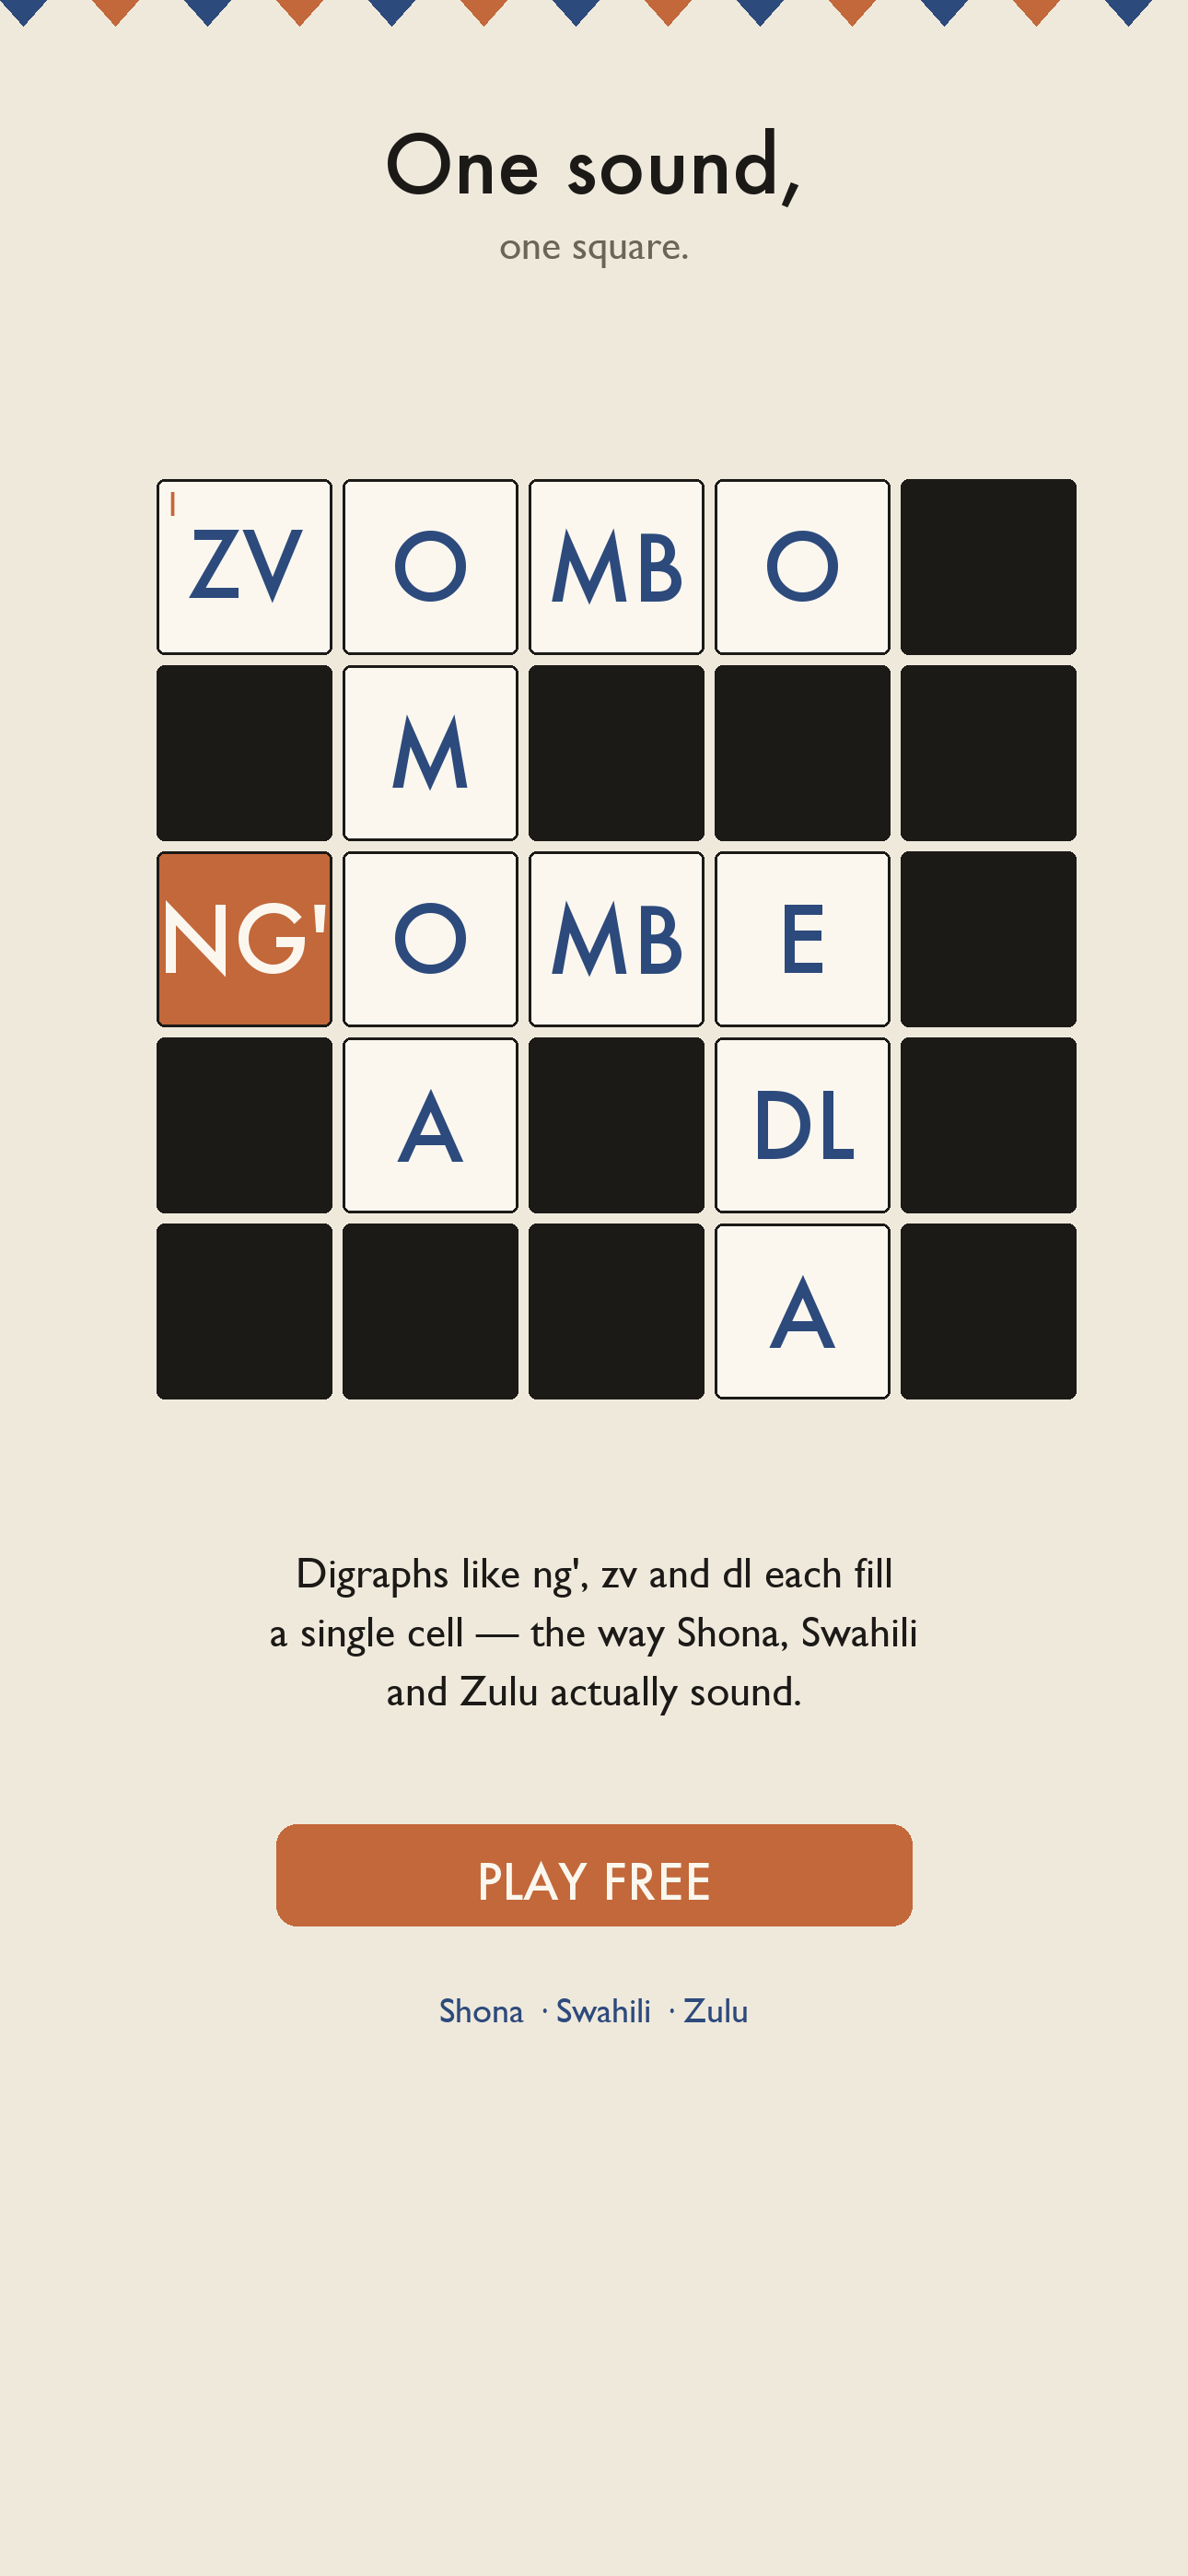
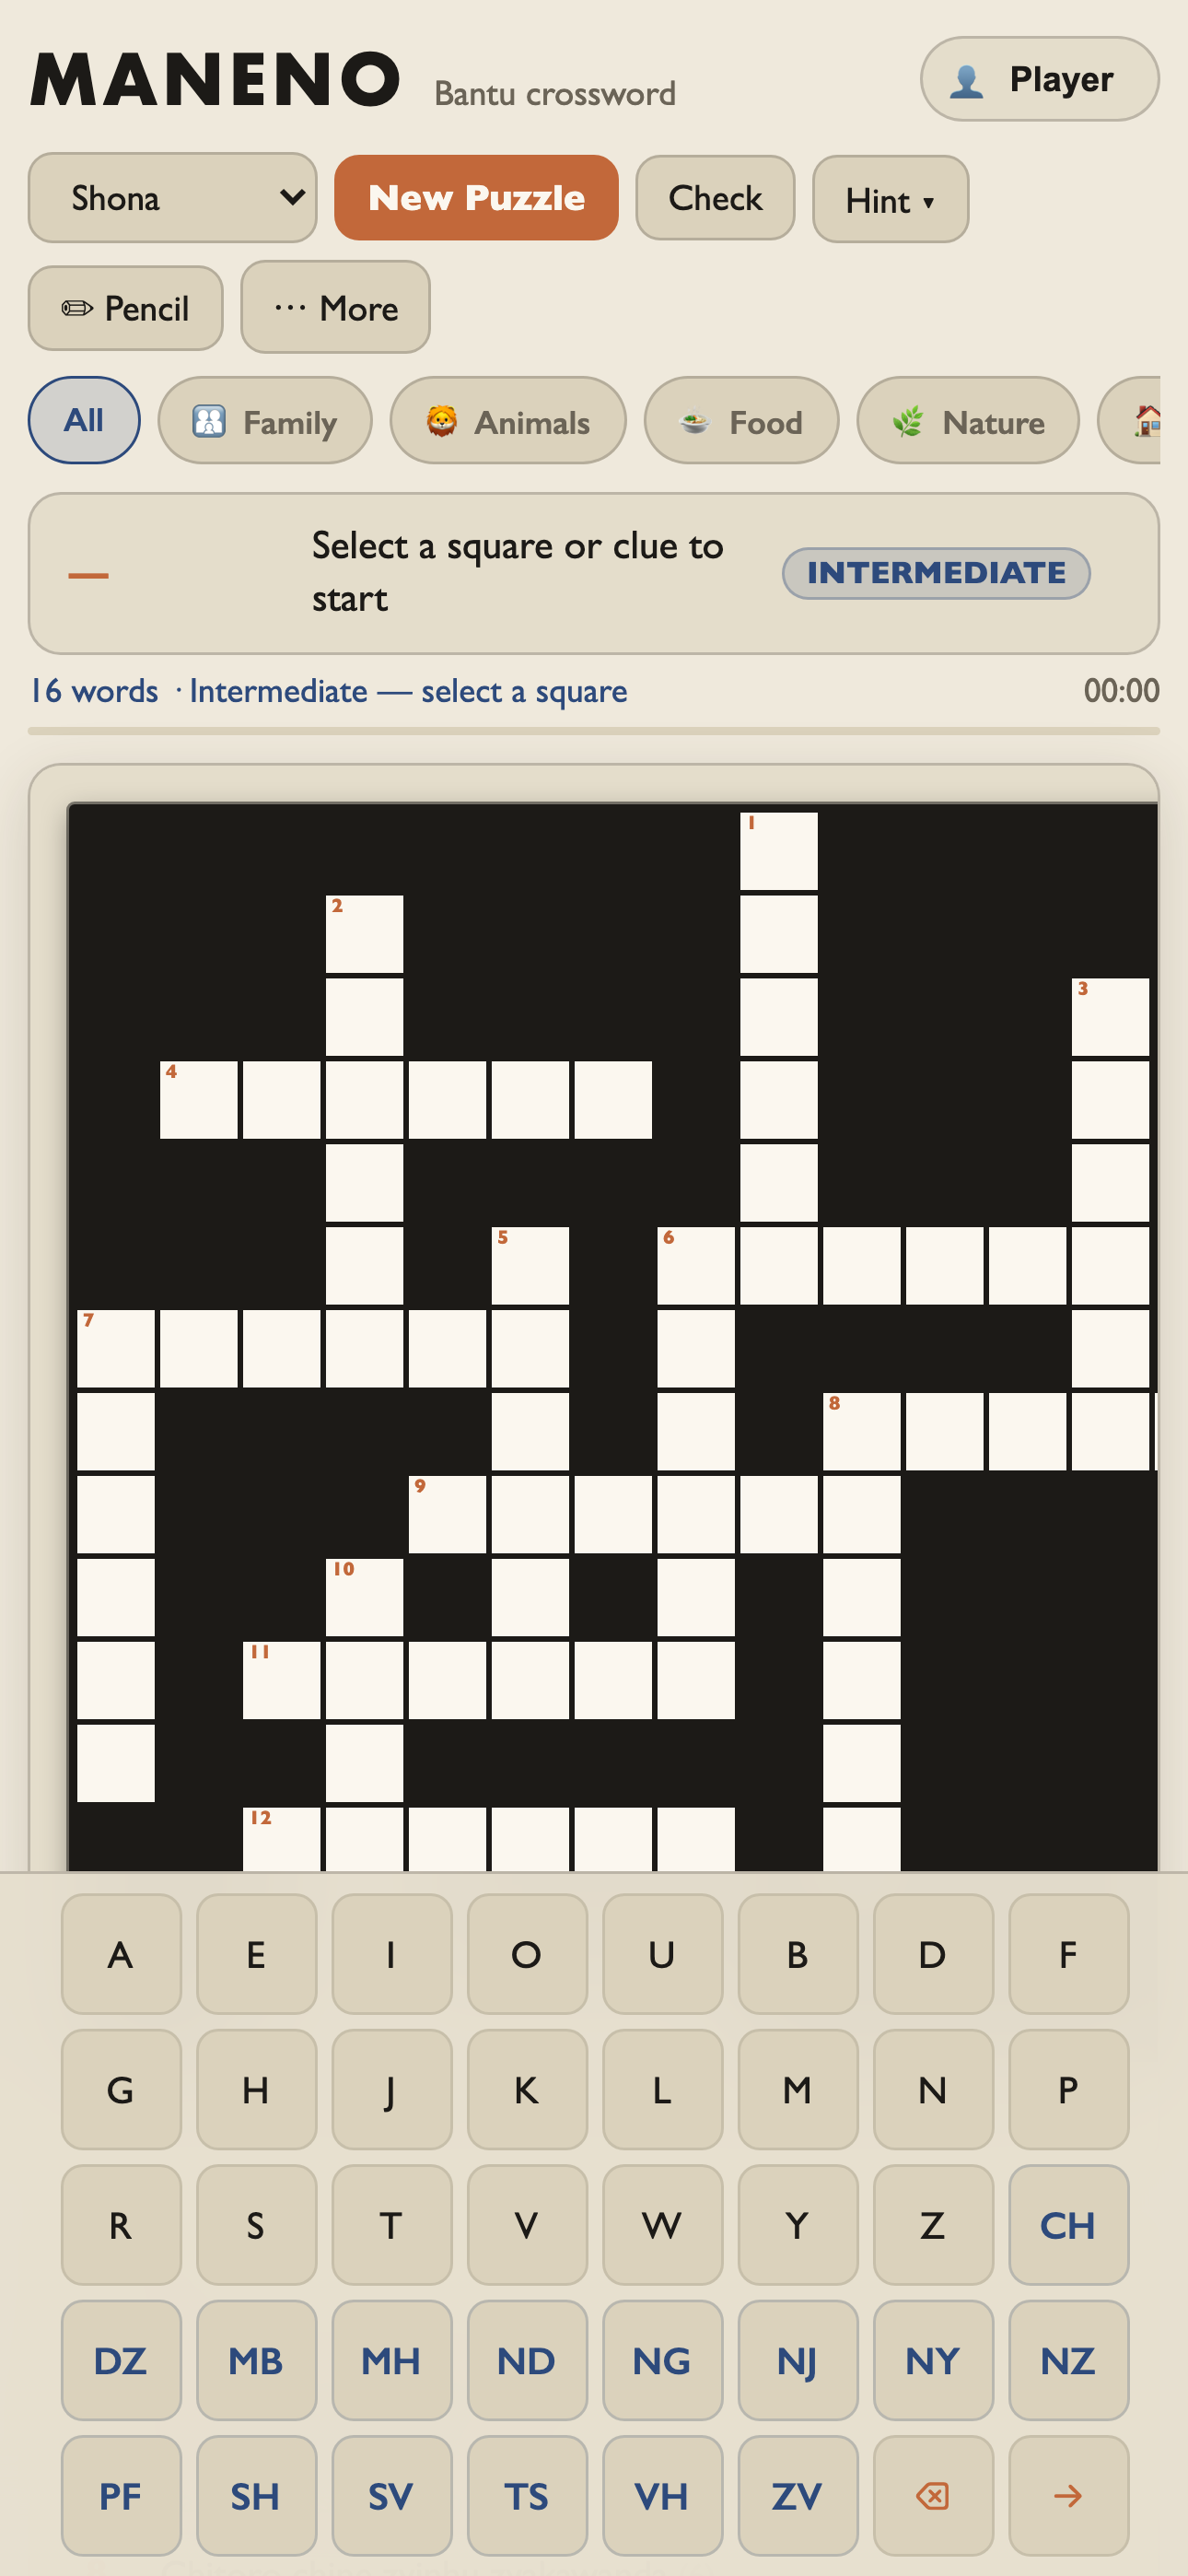
feat(store): real-app screenshots (1290x2796) replace synthetic set
Capture 5 conversion-ordered store screenshots from the live app at exact
6.7in spec via a new 'store' Playwright project (430x932 @ DPR3 = 1290x2796):
grapheme grid (hero), WAKUNDA win, Learn Mode, three-languages (Zulu Beta),
streak+achievements. Replaces the earlier PIL-drawn placeholders. Manifests in
UPLOAD_PACK.md + STORE_LISTING.md updated to the 5 real frames.

diff --git a/qa/e2e/store-shots.spec.ts b/qa/e2e/store-shots.spec.ts
@@ -1,0 +1,62 @@
+import { test, expect } from '@playwright/test';
+import { startGame, solveAll } from './helpers';
+import * as fs from 'fs';
+
+// Curated store screenshots at 1290×2796 (the `store` project supplies the device metrics).
+// Conversion-ordered per MARKETING.md ASO. Each frame is a full-viewport shot → exact store spec.
+// Run: npx playwright test store-shots.spec.ts --project=store
+
+const DIR = 'store-shots';
+const clear = async (page: any) => {
+  for (const s of ['#sdClose', '#winClose', '#profileClose', '#aboutClose'])
+    await page.locator(s).click({ timeout: 1000 }).catch(() => {});
+  await page.keyboard.press('Escape').catch(() => {});
+};
+
+test.beforeAll(() => fs.mkdirSync(DIR, { recursive: true }));
+test.describe.configure({ mode: 'serial', timeout: 60_000 });
+
+test('store-1 — the grapheme grid (hero)', async ({ page }) => {
+  await startGame(page);
+  await page.waitForTimeout(400);
+  await page.screenshot({ path: `${DIR}/01-grid.png` });
+});
+
+test('store-2 — win celebration', async ({ page }) => {
+  await startGame(page);
+  expect(await solveAll(page)).toBe(true);
+  await expect(page.locator('#winModal')).toBeVisible();
+  await page.waitForTimeout(800);
+  await page.screenshot({ path: `${DIR}/02-win.png` });
+});
+
+test('store-3 — Learn Mode', async ({ page }) => {
+  await startGame(page);
+  await page.locator('#btnMore').click();
+  await page.locator('#btnSettings').click();
+  const toggle = page.locator('label.sd-toggle:has(#cbLearnMode)');
+  await toggle.scrollIntoViewIfNeeded();
+  await toggle.click();
+  await page.locator('#sdApply').click();
+  await page.locator('#board [role="gridcell"]').first().click();
+  await page.waitForTimeout(500);
+  await page.screenshot({ path: `${DIR}/03-learn.png` });
+});
+
+test('store-4 — three languages (Zulu shown)', async ({ page }) => {
+  await startGame(page);
+  await clear(page);
+  await page.locator('#lang').selectOption('Zulu'); // value; label is "Zulu (Beta)"
+  await page.waitForTimeout(500);
+  await page.screenshot({ path: `${DIR}/04-zulu.png` });
+});
+
+test('store-5 — streak & achievements', async ({ page }) => {
+  await startGame(page);
+  await solveAll(page);            // populate stats so the profile isn't empty
+  await clear(page);
+  await page.locator('#btnProfile').click();
+  await expect(page.locator('#profileModal')).toBeVisible();
+  await page.waitForTimeout(300);
+  await page.screenshot({ path: `${DIR}/05-streak.png` });
+});

diff --git a/qa/playwright.config.ts b/qa/playwright.config.ts
@@ -18,5 +18,8 @@ export default defineConfig({
   projects: [
     { name: 'desktop', use: { ...devices['Desktop Chrome'], viewport: { width: 1280, height: 800 } } },
     { name: 'mobile',  use: { ...devices['Pixel 5'] } },
+    // Store screenshots: mobile layout at exactly 1290×2796 (App Store 6.7" / Play phone).
+    { name: 'store', use: { browserName: 'chromium', viewport: { width: 430, height: 932 },
+        deviceScaleFactor: 3, isMobile: true, hasTouch: true } },
   ],
 });

diff --git a/UPLOAD_PACK.md b/UPLOAD_PACK.md
@@ -35,7 +35,7 @@ key fingerprint is different. After you upload the first AAB:
 | Full description | the block in `STORE_LISTING.md` (≤4000) |
 | App icon | `store-assets/icon-1024.png` |
 | Feature graphic | `store-assets/feature-graphic-1024x500.png` |
-| Phone screenshots | `store-assets/screen-1-grid.png`, `screen-2-learn.png`, `screen-3-streak.png` |
+| Phone screenshots (5, 1290×2796, **real app**) | `screen-1-grid.png` (grapheme grid), `screen-2-win.png` (WAKUNDA), `screen-3-learn.png` (Learn Mode), `screen-4-zulu.png` (3 languages), `screen-5-streak.png` (streak+achievements) |
 | Category | Games → **Word** (secondary: Education) |
 | Email | [email redacted] |
 | Privacy policy | `https://kmunjy.github.io/maneno/privacy.html` |
@@ -59,7 +59,7 @@ add 12+ testers (recruit from the diaspora FB groups per MARKETING.md) → run ~
 | Description | full block from `STORE_LISTING.md` |
 | Promotional text | `The first crossword built for Bantu languages.` |
 | App icon | `store-assets/icon-1024.png` (no alpha ✓) |
-| 6.7" screenshots | the three 1290×2796 PNGs |
+| 6.7" screenshots | the five 1290×2796 PNGs in `store-assets/screen-*.png` |
 | Bundle ID | `com.kmunjy.maneno` |
 | Category | Games (Word) / secondary Education |
 | Privacy policy | `https://kmunjy.github.io/maneno/privacy.html` |

diff --git a/STORE_LISTING.md b/STORE_LISTING.md
@@ -10,7 +10,7 @@ live in this repo. Edit freely before submitting.
 | `/Users/kmunj/maneno-android/android.keystore` + `KEYSTORE_INFO.txt` | **⚠ BACK UP** — signs all future updates |
 | `store-assets/icon-1024.png` | App icon (1024², no alpha) — both stores |
 | `store-assets/feature-graphic-1024x500.png` | Play feature graphic |
-| `store-assets/screen-1-grid.png` · `screen-2-learn.png` · `screen-3-streak.png` | Phone screenshots (1290×2796) |
+| `store-assets/screen-{1-grid,2-win,3-learn,4-zulu,5-streak}.png` | Phone screenshots — 5, 1290×2796, **captured from the real app** (UAT frames) |
 | `https://kmunjy.github.io/maneno/privacy.html` | Privacy policy URL (both stores) |
 | `https://kmunjy.github.io/maneno/.well-known/assetlinks.json` | Digital Asset Links (live) |
 